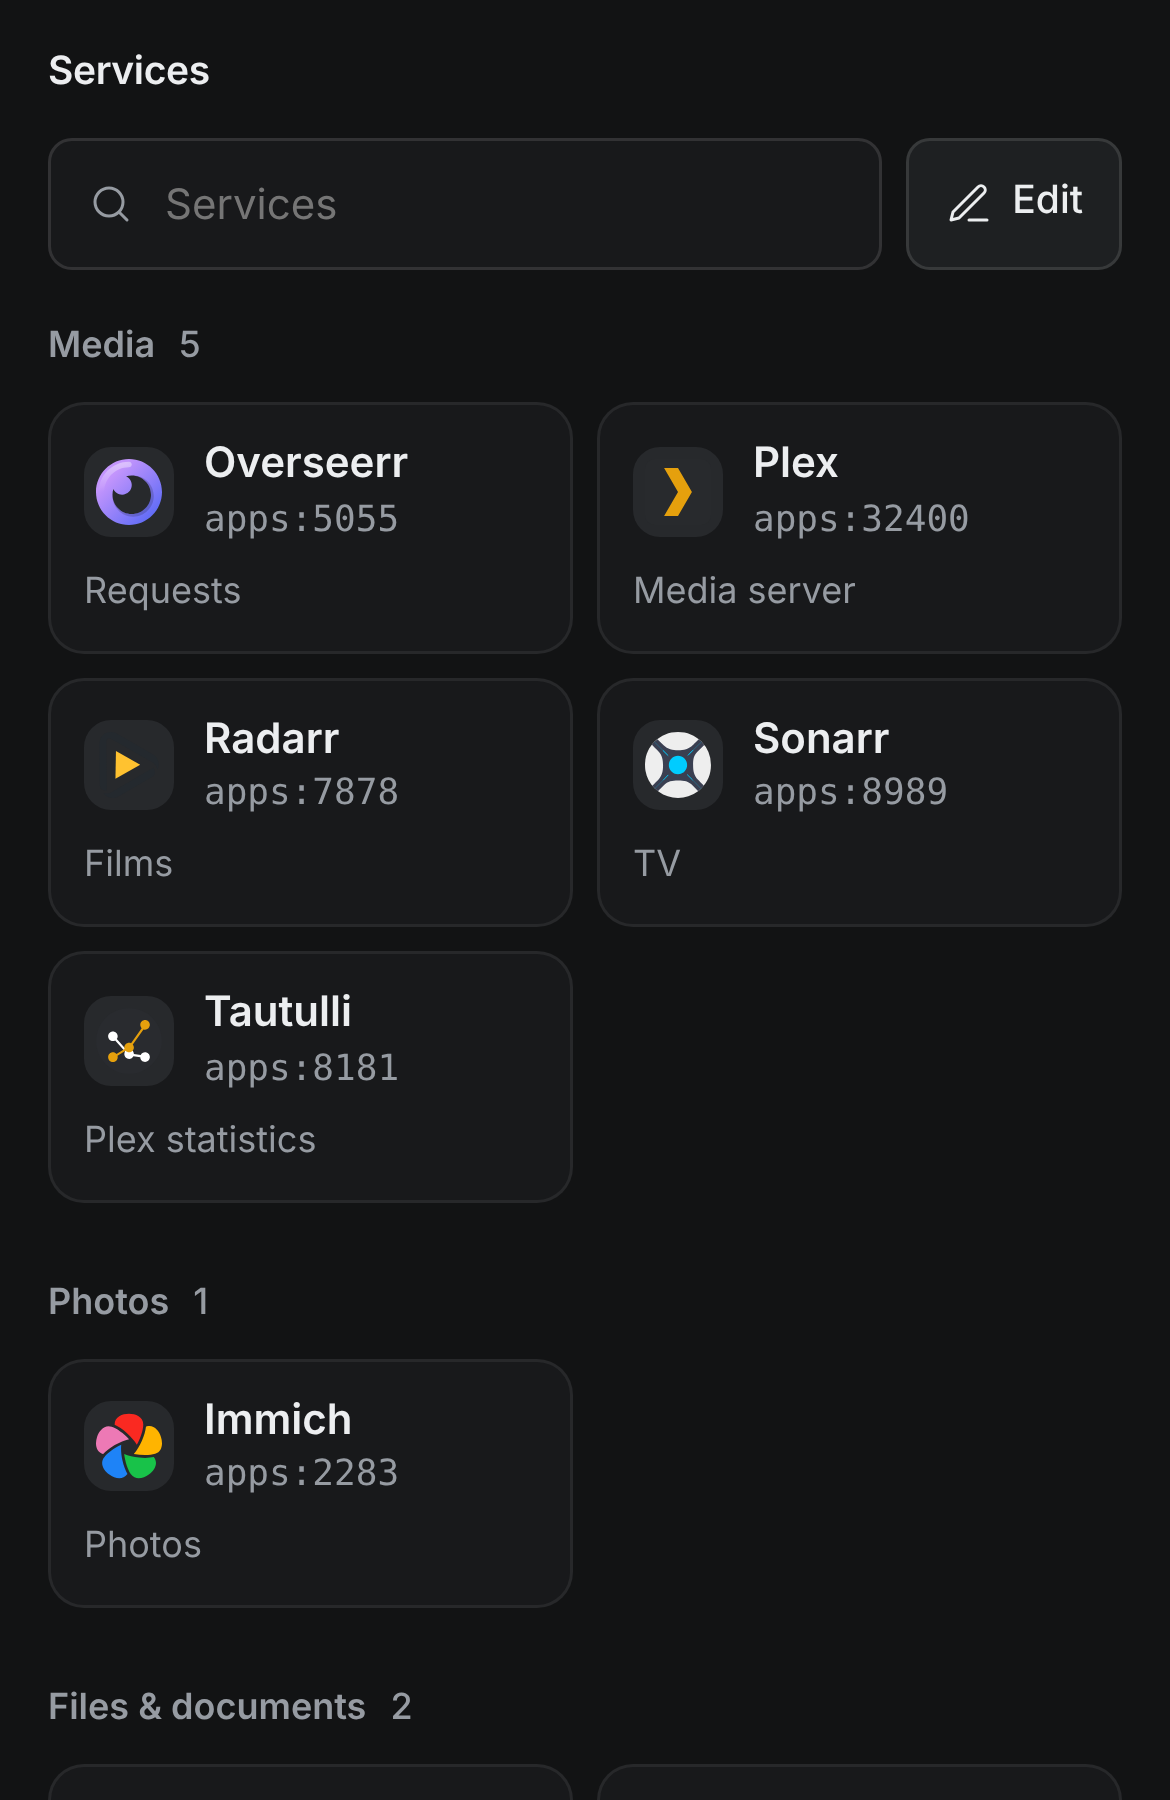
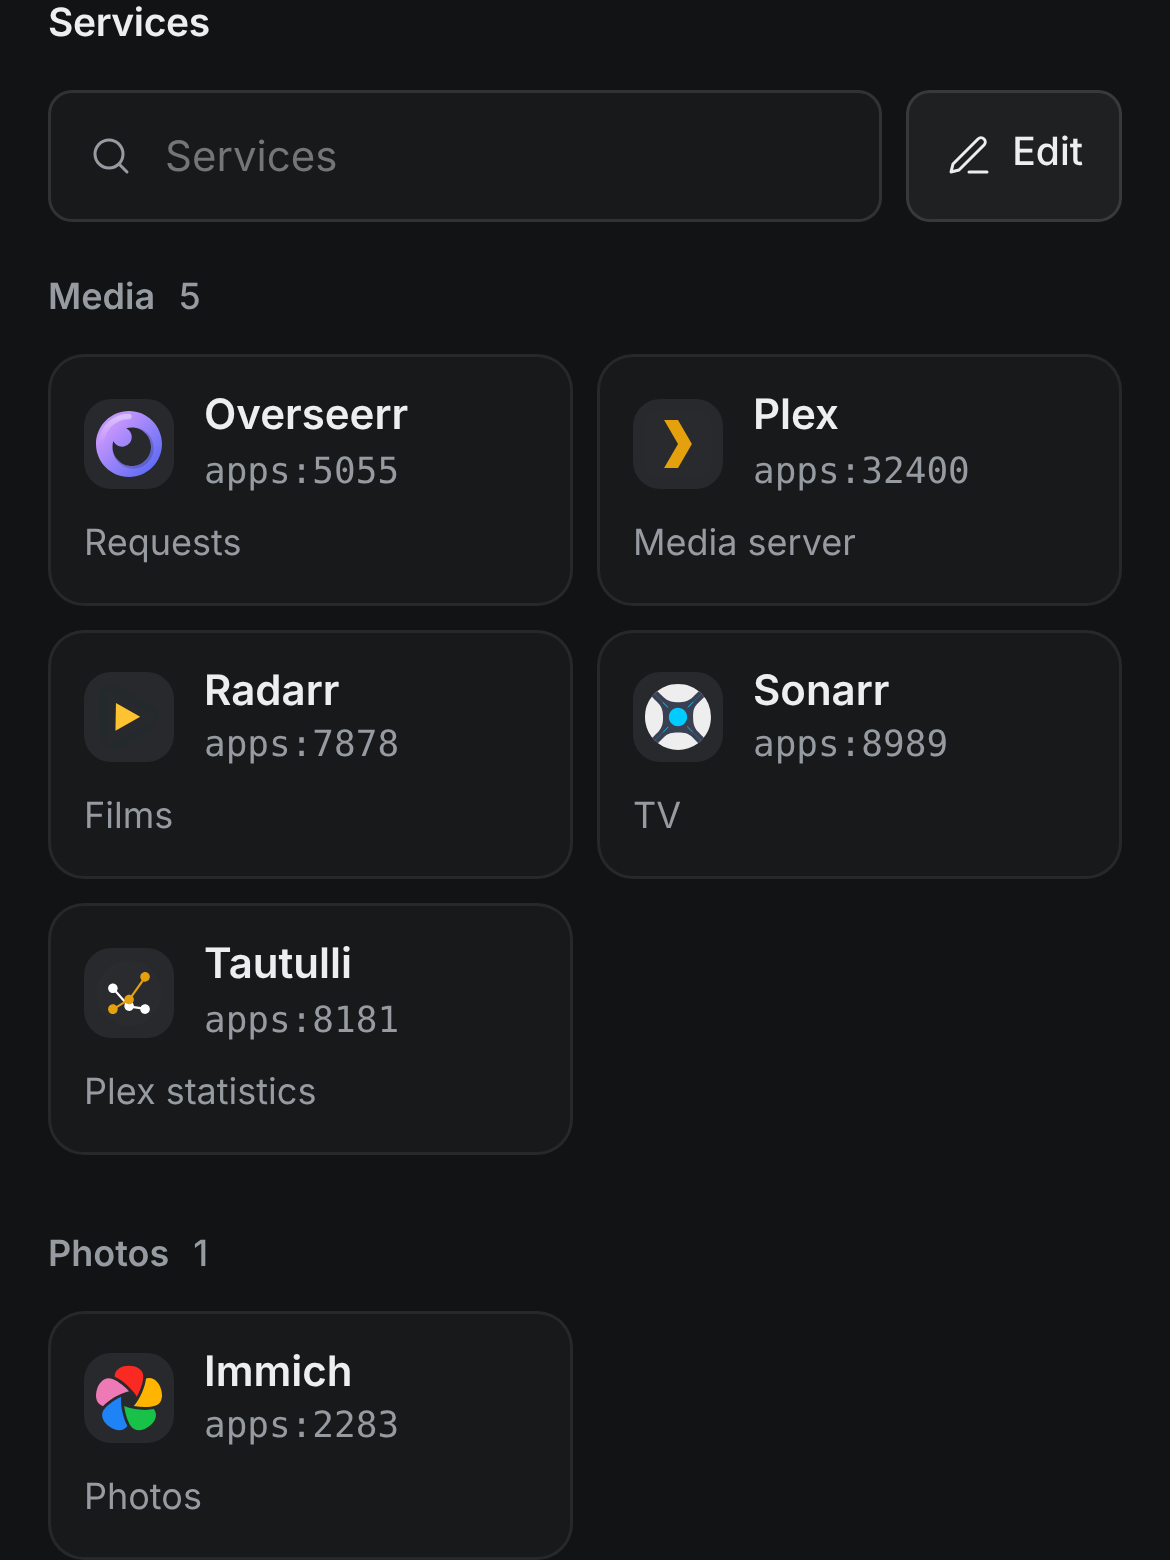
Crop the project page's screenshots to whole cards
Each feature image now ends on an element boundary instead of cutting
through content, the search palette fits its stage at 768 px, and the
images carry their width and height.

diff --git a/site/index.html b/site/index.html
@@ -77,9 +77,9 @@ pre{white-space:pre-wrap;overflow-wrap:anywhere}
 .shot iframe{position:absolute;inset:0;z-index:1;width:100%;height:100%;border:0;display:block;background:transparent}
 .shot img{position:absolute;top:0;left:0;display:block;width:100%;height:auto}
 /* the demo starts on request: one dashboard at a time, nothing heavy on load */
-.go{margin-top:28px;display:flex;justify-content:center}
-.go[hidden]{display:none}
-.go .btn:disabled{cursor:default;filter:none;opacity:.6}
+.start{margin-top:28px;display:flex;justify-content:center}
+.start[hidden]{display:none}
+.start .btn:disabled{cursor:default;filter:none;opacity:.6}
 
 /* fleet search: statement left, the dashboard's own search palette right */
 .search{background:var(--surface);padding:120px var(--m);display:grid;grid-template-columns:repeat(12,1fr);column-gap:var(--gap);align-items:start}
@@ -90,11 +90,11 @@ pre{white-space:pre-wrap;overflow-wrap:anywhere}
 .stage{position:relative;border-radius:4px;overflow:hidden;aspect-ratio:16/10;background:var(--crop)}
 .stage>img{position:absolute;inset:0;width:100%;height:100%;object-fit:cover;object-position:0 0}
 .stage::after{content:"";position:absolute;inset:0;background:var(--scrim)}
-.pal{position:absolute;z-index:1;top:7%;left:50%;transform:translateX(-50%);width:84%;display:flex;flex-direction:column;background:var(--panel);color:var(--ink);border:1px solid var(--line);border-radius:12px;overflow:hidden;font:400 14px/1.4 var(--ui);text-align:left}
+.pal{position:absolute;z-index:1;top:7%;left:50%;transform:translateX(-50%);width:84%;max-height:86%;display:flex;flex-direction:column;background:var(--panel);color:var(--ink);border:1px solid var(--line);border-radius:12px;overflow:hidden;font:400 14px/1.4 var(--ui);text-align:left}
 .pal .qrow{display:flex;align-items:center;gap:10px;padding:0 14px;border-bottom:1px solid var(--line);color:var(--muted)}
 .pal input{flex:1;min-width:0;font:400 16px/1 var(--ui);color:var(--ink);background:transparent;border:0;padding:15px 0;outline:none}
 .pal .qrow kbd{margin-left:auto}
-.pal .results{position:relative;overflow-y:auto;padding:6px;max-height:296px;overscroll-behavior:contain}
+.pal .results{position:relative;flex:1 1 auto;min-height:0;overflow-y:auto;padding:6px;max-height:296px;overscroll-behavior:contain}
 .pal .row{display:flex;align-items:center;gap:10px;width:100%;padding:9px 10px;border-radius:6px;cursor:pointer;font:inherit;color:inherit;background:none;border:0;text-align:left;transition:background-color .12s}
 .pal .row:hover{background:var(--panel-2)}
 .pal .row[aria-selected=true]{background:var(--sel)}
@@ -119,9 +119,11 @@ kbd{font:500 11px/16px var(--ui);padding:0 5px;border-radius:4px;border:1px soli
 .row-f .t{grid-column:1/span 4}
 .row-f h3{font-size:var(--s-head);line-height:1;margin-bottom:16px}
 .row-f p{max-width:30ch}
-.win{grid-column:5/-1;position:relative;overflow:hidden;border-radius:4px;background:var(--crop);aspect-ratio:1048/600}
-.win img{position:absolute;top:0;left:0;width:100%;height:auto;max-width:none}
-.plate{display:grid;place-items:center}
+.win{grid-column:5/-1;position:relative;overflow:hidden;border-radius:4px;background:var(--crop);padding:24px 0}
+/* the images are cut exactly to whole cards; the padding, in the dashboard's own ground colour, gives them room */
+.win.plate{padding:40px 24px}
+.win img{display:block;width:100%;height:auto}
+.plate{display:grid;place-items:center;padding:40px 24px}
 .upd{width:min(560px,78%);background:var(--panel);border:1px solid var(--line);border-radius:12px;padding:6px 22px;font:400 15px/1.4 var(--ui)}
 .upd div{display:grid;grid-template-columns:76px 96px 1fr;align-items:center;gap:12px;padding:13px 0;border-top:1px solid var(--line)}
 .upd div:first-child{border-top:0}
@@ -205,9 +207,8 @@ html{scroll-behavior:smooth}
   .features h2{font-size:12vw;margin-bottom:56px}
   .row-f{display:block;margin-bottom:72px}
   .row-f h3{font-size:26px}
-  .win{margin-top:20px;aspect-ratio:390/600}
-  .win img{width:100%;left:0}
-  .plate{aspect-ratio:auto;padding:16px}
+  .win{margin-top:20px;padding:16px 0}
+  .win.plate{padding:16px}
   .upd{width:100%;padding:4px 16px}
   .upd div{grid-template-columns:56px 76px 1fr}
   .steps{display:block}
@@ -248,11 +249,11 @@ html{scroll-behavior:smooth}
   <h1 aria-label="homelab-inventory"><span>homelab-</span><span>inventory</span></h1>
   <p class="lede" data-in style="--i:6">A dashboard for your homelab. An agent on each Linux host reports containers, disks, ZFS, Proxmox, ports and packages every 15 minutes.</p>
   <p class="try" data-in style="--i:7">The dashboard below runs on an example fleet of six hosts.</p>
-  <div class="go" id="go" data-in style="--i:8" hidden><button class="btn" type="button" id="start">Try the live dashboard</button></div>
+  <div class="start" id="go" data-in style="--i:8" hidden><button class="btn" type="button" id="start">Try the live dashboard</button></div>
   <div class="shot" data-ui data-in style="--i:9">
     <iframe id="demo" title="The homelab-inventory dashboard, running on an example fleet" data-src="demo/"></iframe>
-    <picture class="lt"><source media="(max-width:720px)" srcset="img/overview-phone-light.png"><img src="img/overview-light.png" alt="The dashboard's overview: two streams playing, the load on apps, seven alerts, the alerts that need attention and the storage forecasts" width="2880" height="1640"></picture>
-    <picture class="dk"><source media="(max-width:720px)" srcset="img/overview-phone-dark.png"><img src="img/overview-dark.png" alt="The dashboard's overview in the dark theme" width="2880" height="1640" loading="lazy"></picture>
+    <picture class="lt"><source media="(max-width:720px)" srcset="img/overview-phone-light.png" width="780" height="1440"><img src="img/overview-light.png" alt="The dashboard's overview: two streams playing, the load on apps, seven alerts, the alerts that need attention and the storage forecasts" width="2880" height="1640"></picture>
+    <picture class="dk"><source media="(max-width:720px)" srcset="img/overview-phone-dark.png" width="780" height="1440"><img src="img/overview-dark.png" alt="The dashboard's overview in the dark theme" width="2880" height="1640" loading="lazy"></picture>
   </div>
 </section>
 <!--CHUNK-->
@@ -273,7 +274,7 @@ html{scroll-behavior:smooth}
           <button class="row" type="button" role="option" aria-selected="true"><span class="tag">service</span><span class="what">Immich <span class="sub">Photos · apps:2283</span></span></button>
           <button class="row" type="button" role="option"><span class="tag">port</span><span class="what">apps:2283 <span class="sub">immich_server · photos</span></span></button>
         </div>
-        <div class="hint" id="hint" aria-live="polite"><span class="k"><kbd>↑</kbd><kbd>↓</kbd> move</span><span><kbd>enter</kbd> open</span><span class="k"><kbd>esc</kbd> clear</span></div>
+        <div class="hint" id="hint" aria-live="polite"><span class="k"><kbd>↑</kbd><kbd>↓</kbd> move</span><span><kbd>enter</kbd> where it opens</span><span class="k"><kbd>esc</kbd> clear</span></div>
       </div>
     </div>
     <div class="examples" data-in style="--i:3">
@@ -291,29 +292,29 @@ html{scroll-behavior:smooth}
   <div class="row-f">
     <div class="t"><h3 class="d" data-in>Disk forecasts</h3><p data-in>When each filesystem, ZFS pool and Proxmox storage will be full, from the last 14 days of reports.</p></div>
     <div class="win" style="--fx:-75%" data-in>
-      <picture class="lt"><source media="(max-width:720px)" srcset="img/forecasts-light-phone.png" width="1170" height="1800"><img src="img/forecasts-light.png" alt="Home page: alerts needing attention, and storage with a forecast for each disk: / on apps full in 14 days, tank on vault in 267 days" width="2096" height="1200"></picture>
-      <picture class="dk"><source media="(max-width:720px)" srcset="img/forecasts-dark-phone.png" width="1170" height="1800"><img src="img/forecasts-dark.png" alt="Home page: alerts needing attention, and storage with a forecast for each disk: / on apps full in 14 days, tank on vault in 267 days" width="2096" height="1200" loading="lazy"></picture>
+      <picture class="lt"><source media="(max-width:720px)" srcset="img/forecasts-light-phone.png" width="1170" height="1584"><img src="img/forecasts-light.png" alt="Storage on the home page, with a forecast for each disk: / on apps full in 14 days, tank on vault in 267 days" width="2096" height="1056"></picture>
+      <picture class="dk"><source media="(max-width:720px)" srcset="img/forecasts-dark-phone.png" width="1170" height="1584"><img src="img/forecasts-dark.png" alt="Storage on the home page, with a forecast for each disk: / on apps full in 14 days, tank on vault in 267 days" loading="lazy" width="2096" height="1056"></picture>
     </div>
   </div>
   <div class="row-f">
     <div class="t"><h3 class="d" data-in>Alerts</h3><p data-in>Full disks, failed units, unhealthy containers, ZFS scrubs and backups. Apprise notifies you when one starts or clears.</p></div>
     <div class="win" style="--fx:0%" data-in>
-      <picture class="lt"><source media="(max-width:720px)" srcset="img/alerts-light-phone.png" width="1170" height="1800"><img src="img/alerts-light.png" alt="Alerts page: 4 warnings across 6 hosts, a restarting container, a disk at 86% and a guest with no backup job" width="2096" height="1200"></picture>
-      <picture class="dk"><source media="(max-width:720px)" srcset="img/alerts-dark-phone.png" width="1170" height="1800"><img src="img/alerts-dark.png" alt="Alerts page: 4 warnings across 6 hosts, a restarting container, a disk at 86% and a guest with no backup job" width="2096" height="1200" loading="lazy"></picture>
+      <picture class="lt"><source media="(max-width:720px)" srcset="img/alerts-light-phone.png" width="1170" height="1974"><img src="img/alerts-light.png" alt="Alerts page: 4 warnings across 6 hosts, a restarting container and a disk at 86%" width="2096" height="1158"></picture>
+      <picture class="dk"><source media="(max-width:720px)" srcset="img/alerts-dark-phone.png" width="1170" height="1974"><img src="img/alerts-dark.png" alt="Alerts page: 4 warnings across 6 hosts, a restarting container and a disk at 86%" loading="lazy" width="2096" height="1158"></picture>
     </div>
   </div>
   <div class="row-f">
     <div class="t"><h3 class="d" data-in>Service launcher</h3><p data-in>A tile for every web service it finds listening on your hosts, with its icon and address.</p></div>
     <div class="win" style="--fx:0%" data-in>
-      <picture class="lt"><source media="(max-width:720px)" srcset="img/launcher-light-phone.png" width="1170" height="1800"><img src="img/launcher-light.png" alt="Services: tiles for Overseerr, Plex, Radarr, Sonarr, Tautulli, Immich, Nextcloud and Paperless-ngx with their host and port" width="2096" height="1200"></picture>
-      <picture class="dk"><source media="(max-width:720px)" srcset="img/launcher-dark-phone.png" width="1170" height="1800"><img src="img/launcher-dark.png" alt="Services: tiles for Overseerr, Plex, Radarr, Sonarr, Tautulli, Immich, Nextcloud and Paperless-ngx with their host and port" width="2096" height="1200" loading="lazy"></picture>
+      <picture class="lt"><source media="(max-width:720px)" srcset="img/launcher-light-phone.png" width="1170" height="1560"><img src="img/launcher-light.png" alt="Services: tiles for Overseerr, Plex, Radarr, Sonarr, Tautulli and Immich, each with its icon and address" width="2096" height="1140"></picture>
+      <picture class="dk"><source media="(max-width:720px)" srcset="img/launcher-dark-phone.png" width="1170" height="1560"><img src="img/launcher-dark.png" alt="Services: tiles for Overseerr, Plex, Radarr, Sonarr, Tautulli and Immich, each with its icon and address" loading="lazy" width="2096" height="1140"></picture>
     </div>
   </div>
   <div class="row-f">
     <div class="t"><h3 class="d" data-in>Host pages</h3><p data-in>One page per host, one section for each thing it reports: alerts, facts, storage, containers, stacks, the port map, images, packages, what changed and compose files.</p></div>
     <div class="win" style="--fx:0%" data-in>
-      <picture class="lt"><source media="(max-width:720px)" srcset="img/host-light-phone.png" width="1170" height="1800"><img src="img/host-light.png" alt="The page for host apps: tiles for alerts, listening sockets, containers and runs, then one section each for alerts, agent updates, facts, storage and containers" width="2096" height="1200"></picture>
-      <picture class="dk"><source media="(max-width:720px)" srcset="img/host-dark-phone.png" width="1170" height="1800"><img src="img/host-dark.png" alt="The page for host apps: tiles for alerts, listening sockets, containers and runs, then one section each for alerts, agent updates, facts, storage and containers" width="2096" height="1200" loading="lazy"></picture>
+      <picture class="lt"><source media="(max-width:720px)" srcset="img/host-light-phone.png" width="1170" height="2337"><img src="img/host-light.png" alt="The page for host apps: tiles for alerts, listening sockets, containers and runs, then one section each for alerts, agent updates, facts, storage and containers" width="2096" height="1112"></picture>
+      <picture class="dk"><source media="(max-width:720px)" srcset="img/host-dark-phone.png" width="1170" height="2337"><img src="img/host-dark.png" alt="The page for host apps: tiles for alerts, listening sockets, containers and runs, then one section each for alerts, agent updates, facts, storage and containers" loading="lazy" width="2096" height="1112"></picture>
     </div>
   </div>
   <div class="row-f">
@@ -332,8 +333,8 @@ html{scroll-behavior:smooth}
   <div class="row-f">
     <div class="t"><h3 class="d" data-in>Plugins</h3><p data-in>Media, network, uploads, Cloudflare and more. Each one stays off until you turn it on.</p></div>
     <div class="win" style="--fx:0%" data-in>
-      <picture class="lt"><source media="(max-width:720px)" srcset="img/plugins-light-phone.png" width="1170" height="1800"><img src="img/plugins-light.png" alt="Admin, Plugins: Archive, Cloudflare, Dusk, Media, Network and Security canaries, each with its settings and an on or off switch; Media and Network are on" width="2096" height="1200"></picture>
-      <picture class="dk"><source media="(max-width:720px)" srcset="img/plugins-dark-phone.png" width="1170" height="1800"><img src="img/plugins-dark.png" alt="Admin, Plugins: Archive, Cloudflare, Dusk, Media, Network and Security canaries, each with its settings and an on or off switch; Media and Network are on" width="2096" height="1200" loading="lazy"></picture>
+      <picture class="lt"><source media="(max-width:720px)" srcset="img/plugins-light-phone.png" width="1170" height="2184"><img src="img/plugins-light.png" alt="Admin, Plugins: each plugin with its settings and an on or off switch; Media and Network are on" width="2096" height="1598"></picture>
+      <picture class="dk"><source media="(max-width:720px)" srcset="img/plugins-dark-phone.png" width="1170" height="2184"><img src="img/plugins-dark.png" alt="Admin, Plugins: each plugin with its settings and an on or off switch; Media and Network are on" loading="lazy" width="2096" height="1598"></picture>
     </div>
   </div>
 </section>
